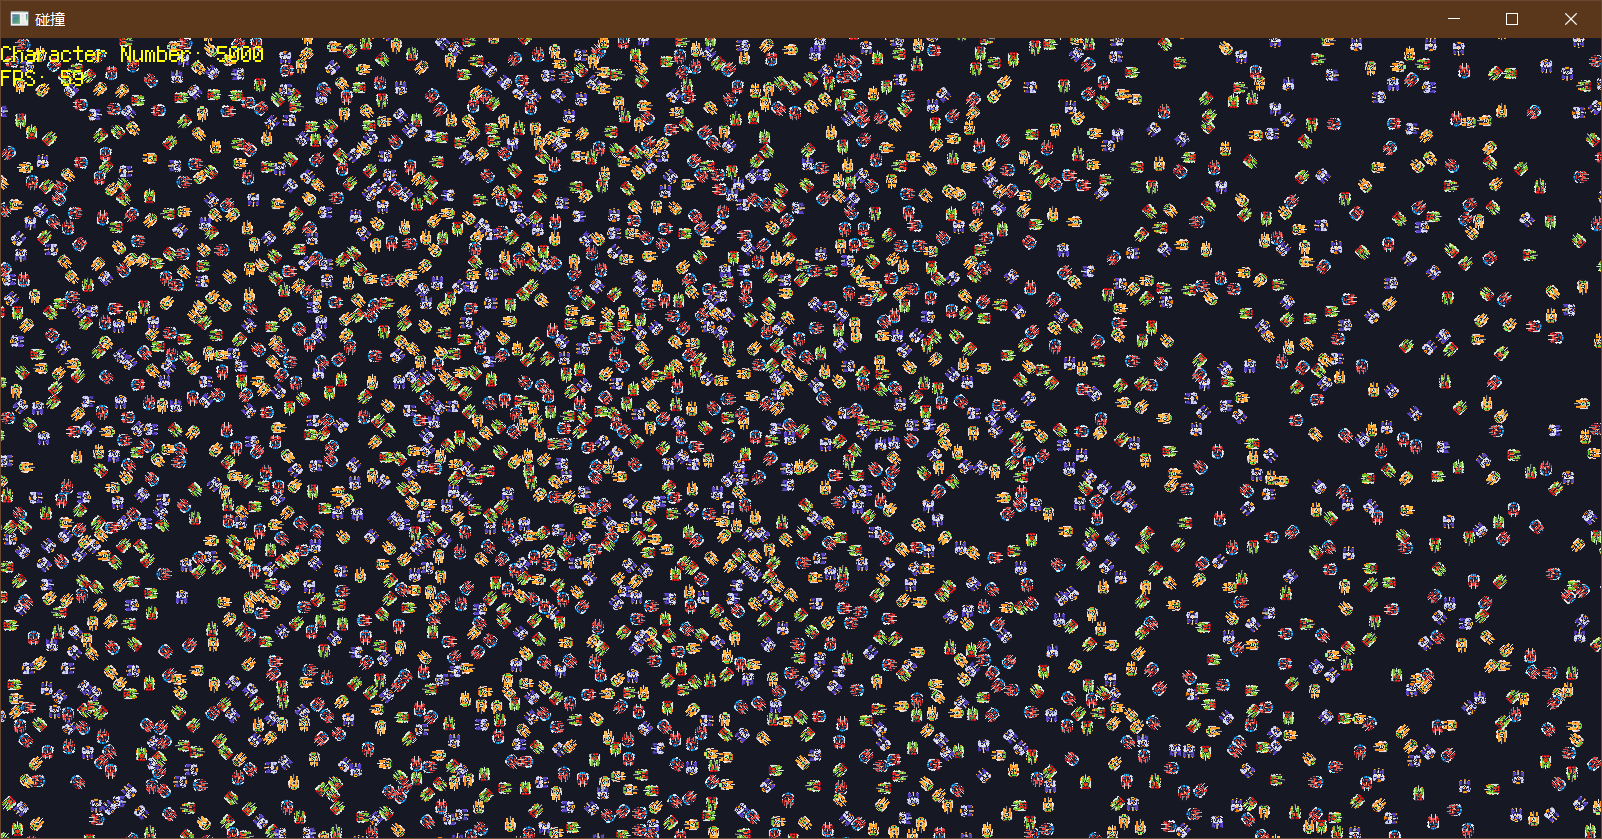
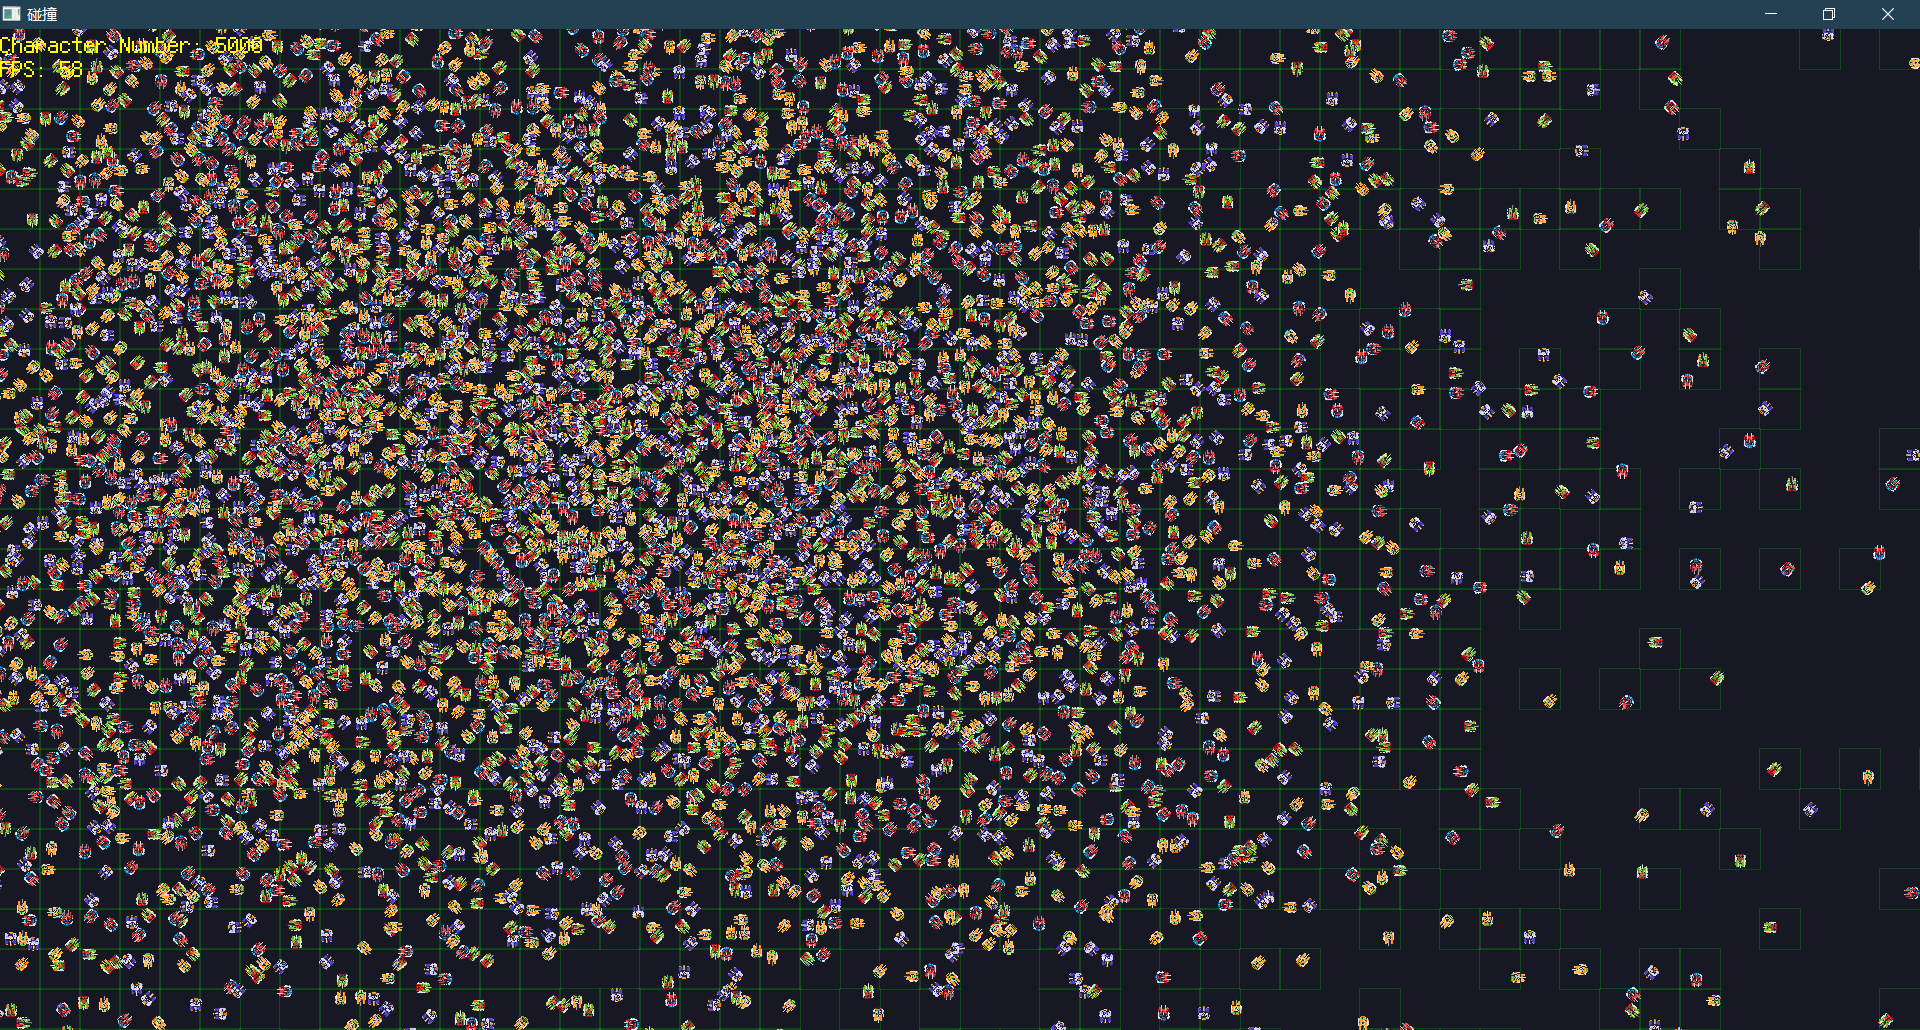
[grid] show uniform-grid rects.

diff --git a/grid/App.cpp b/grid/App.cpp
@@ -13,13 +13,13 @@ void App::init() {
     initActors();
 
     initUGrid();
+    initRects();
 }
 
 void App::run() {
     
     sf::Clock clock;
     sf::Time elapsed;
-    int fps;
 
     while (window.isOpen())
     {
@@ -38,27 +38,19 @@ void App::run() {
 
         elapsed = clock.restart();
 
-        for (auto& actor : actors)
-        {
-            actor.play(elapsed);
-        }
-
-        // sort(actors.begin(), actors.end(), Actor::zOrder);
-
-        fps = int(1 / elapsed.asSeconds());
-        text.setString(fmt::format("Character Number: {}\nFPS: {}", MAX, fps));
-
-        window.clear(BG_COLOR);
-
-        for (auto& actor : actors)
-        {
-            window.draw(actor.sprite);
-        }
-
-        window.draw(text);
-        window.display();
+        updateActors(elapsed);
+        updateText(elapsed);
 
         updateUGrid();
+
+        window.clear(BG_COLOR);
+        
+        drawRects();
+        drawActors();
+
+        drawText();
+        
+        window.display();
     }
 }
 
@@ -91,6 +83,15 @@ void App::initText() {
     text.setFillColor(sf::Color::Yellow);
 }
 
+void App::drawText() {
+    window.draw(text);
+}
+
+void App::updateText(sf::Time elapsed) {
+    int fps = int(1 / elapsed.asSeconds());
+    text.setString(fmt::format("Character Number: {}\nFPS: {}", MAX, fps));
+}
+
 void App::initActors() {
 
     actors = vector<Actor>();
@@ -100,6 +101,20 @@ void App::initActors() {
         Actor actor;
 
         actors.push_back(actor);
+    }
+}
+
+void App::updateActors(sf::Time elapsed) {
+    for (auto& actor : actors)
+    {
+        actor.play(elapsed);
+    }
+}
+
+void App::drawActors() {
+    for (auto& actor : actors)
+    {
+        window.draw(actor.sprite);
     }
 }
 
@@ -115,22 +130,6 @@ void App::initUGrid() {
     }
 
     ugrid_optimize(mp_grid);
-
-    cout << fmt::format("{} {} {}", mp_grid->num_rows, mp_grid->num_cols, mp_grid->num_rows) << endl;
-
-    /*
-    for (auto& actor : actors)
-    {
-        cout << fmt::format("in_bound({}, {}) = {}", actor.getX(), actor.getY(), 
-            ugrid_in_bounds(mp_grid, actor.getX(), actor.getY())) << endl;
-    }
-    */
-
-    /*
-    Actor &actor = actors[0];
-    actor.sprite.setColor(sf::Color(255, 0, 0));
-    cout << fmt::format("{}: {}, {}", actor.getID(), actor.getX(), actor.getY()) << endl;
-    */
 
 }
 
@@ -160,4 +159,31 @@ void App::updateUGrid() {
 
     ugrid_optimize(mp_grid);
 
+}
+
+void App::initRects() {
+    for (int i = 0; i < mp_grid->num_rows; i++) {
+        for (int j = 0; j < mp_grid->num_cols; j++) {
+            sf::RectangleShape rect(sf::Vector2f(CELL_WIDTH, CELL_HEIGHT));
+            rect.setPosition(float(CELL_WIDTH) * j, float(CELL_HEIGHT) * i);
+            rect.setFillColor(sf::Color::Transparent);
+            rect.setOutlineColor(sf::Color(0, 255, 0, 50));
+            rect.setOutlineThickness(1.f);
+            rects.push_back(rect);
+        }
+    }
+}
+
+void App::drawRects() {
+    int r = 0;
+    for (int i = 0; i < mp_grid->num_rows; i++) {
+        UGridRow* row = &mp_grid->rows[i];
+        for (int j = 0; j < mp_grid->num_cols; j++) {
+            int* cell = &row->cells[j];
+            if (*cell != -1) {
+                window.draw(rects[r]);
+            }
+            r++;
+        }
+    }
 }

diff --git a/grid/App.h b/grid/App.h
@@ -23,11 +23,20 @@ private:
 	void init();
 
 	void initWindow();
+
 	void initText();
+	void updateText(sf::Time elapsed);
+	void drawText();
+
 	void initActors();
+	void updateActors(sf::Time elapsed);
+	void drawActors();
 
 	void initUGrid();
 	void updateUGrid();
+
+	void initRects();
+	void drawRects();
 
 	void onResize();
 
@@ -38,6 +47,8 @@ private:
 	vector<Actor> actors;
 
 	UGrid* mp_grid;
+
+	vector<sf::RectangleShape> rects;
 
 };
 
